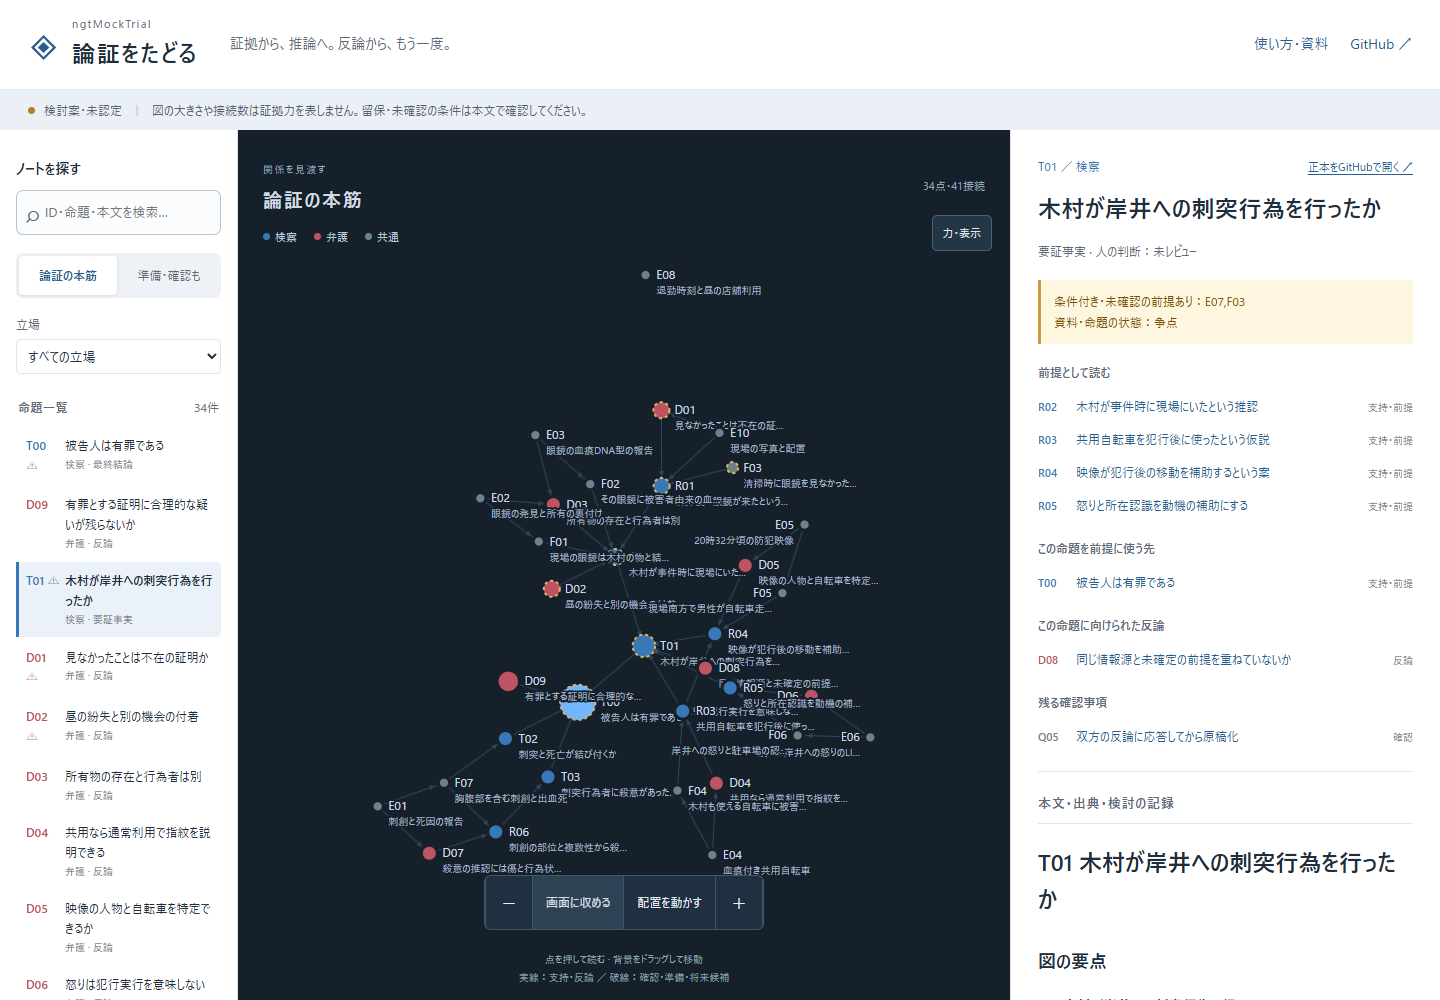
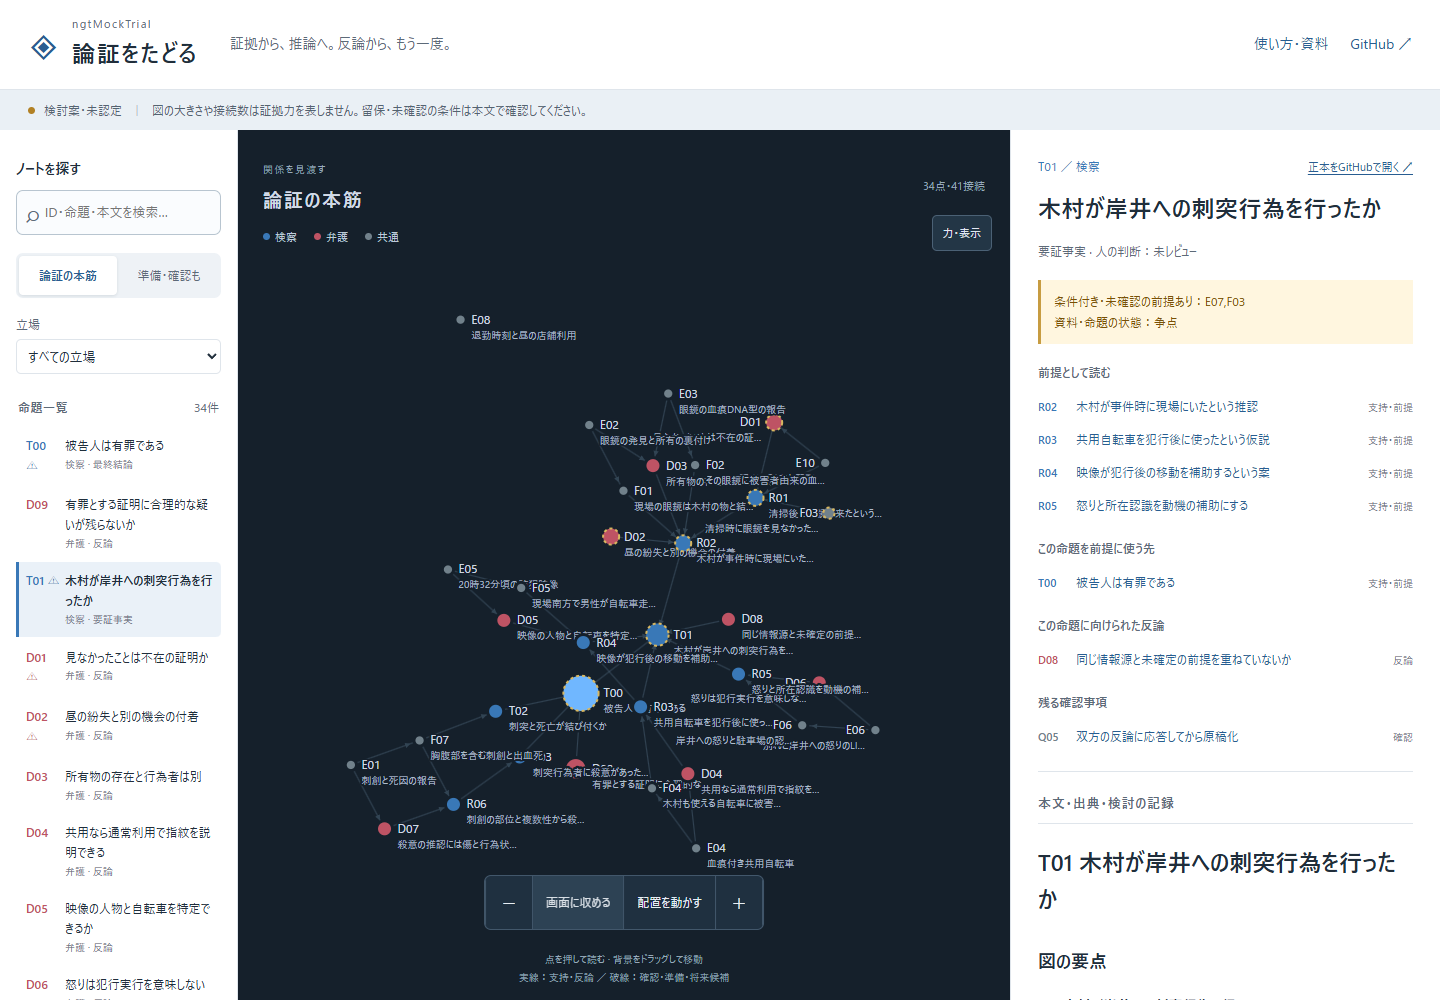
Keep graph computation active for a minimum settling interval

diff --git a/web/app.js b/web/app.js
@@ -28,7 +28,8 @@
   let width = 600, height = 800, zoom = 1, panX = 0, panY = 0;
   let dragging = null, moved = false;
   let simulation = null, simulationNodes = [], hovered = null, emphasized = null, userPaused = false;
-  let fitScale = 1, worldCenter = {x:0,y:0}, plotCenterY=400, automaticFit = true, startedAt = 0;
+  let fitScale = 1, worldCenter = {x:0,y:0}, plotCenterY=400, automaticFit = true, startedAt = 0, settleUntil = 0;
+  const MIN_SETTLING_MS=3000, MAX_SETTLING_MS=8000;
   const pointCache = new Map();
   const reduceMotion = matchMedia('(prefers-reduced-motion:reduce)');
   const ns = 'http://www.w3.org/2000/svg';
@@ -160,13 +161,19 @@
     $('pause-layout').setAttribute('aria-pressed',!value);
   }
 
-  function stopSimulation() {if(simulation)simulation.stop();setRunning(false);}
+  function stopSimulation() {if(simulation)simulation.stop().alphaTarget(0);setRunning(false);}
+
+  function finishSimulation() {stopSimulation();if(automaticFit)fitWorld();paint();}
 
   function restartSimulation(alpha=.35) {
     if (!simulation || userPaused || document.hidden) return;
     startedAt=performance.now();
-    if(reduceMotion.matches){simulation.stop().alpha(alpha).alphaTarget(0).tick(160);if(automaticFit)fitWorld();paint();setRunning(false);}
-    else{simulation.alpha(Math.max(alpha,simulation.alpha())).restart();setRunning(true);}
+    settleUntil=startedAt+MIN_SETTLING_MS;
+    $('graph').dataset.settlingStarted=String(startedAt);
+    // Keep computing for a minimum real-time settling interval before cooling.
+    // Reduced motion suppresses animated painting, not the solver itself.
+    simulation.alpha(Math.max(alpha,simulation.alpha())).alphaTarget(.12).restart();
+    setRunning(true);
   }
 
   function applyForces() {
@@ -201,8 +208,13 @@
     simulation=d3.forceSimulation(simulationNodes).stop().alphaDecay(.055).velocityDecay(.4);
     applyForces();
     simulation.tick(90);fitWorld();automaticFit=true;
-    simulation.on('tick',()=>{paint();if(performance.now()-startedAt>3500&&!dragging)stopSimulation();});
-    simulation.on('end',()=>{if(automaticFit)fitWorld();paint();setRunning(false);});
+    simulation.on('tick',()=>{
+      const now=performance.now();
+      if(!reduceMotion.matches||dragging?.id)paint();
+      if(now>=settleUntil&&!dragging)simulation.alphaTarget(0);
+      if(now-startedAt>=MAX_SETTLING_MS&&!dragging)finishSimulation();
+    });
+    simulation.on('end',finishSimulation);
     $('graph').dataset.engine='d3-force';
     $('graph-count').textContent=`${ids.length}点・${edges.length}接続`;
     $('edges').replaceChildren();$('nodes').replaceChildren();
@@ -267,7 +279,7 @@
   $('graph').addEventListener('keydown',e=>{if(['+','=','-','ArrowLeft','ArrowRight','ArrowUp','ArrowDown'].includes(e.key)){e.preventDefault();if(e.key==='+'||e.key==='=')scaleBy(1.25);else if(e.key==='-')scaleBy(.8);else{automaticFit=false;const amount=e.shiftKey?60:20;panX+=e.key==='ArrowLeft'?amount:e.key==='ArrowRight'?-amount:0;panY+=e.key==='ArrowUp'?amount:e.key==='ArrowDown'?-amount:0;paint();}}});
   $('zoom-in').addEventListener('click',()=>scaleBy(1.25));$('zoom-out').addEventListener('click',()=>scaleBy(.8));
   $('reset-graph').addEventListener('click',()=>{fitWorld();resetView();emphasized=hovered=null;highlightGraph();});
-  $('pause-layout').addEventListener('click',()=>{if($('graph').dataset.running==='true'){userPaused=true;stopSimulation();}else{userPaused=false;restartSimulation();}});
+  $('pause-layout').addEventListener('click',()=>{if($('graph').dataset.running==='true'){userPaused=true;stopSimulation();paint();}else{userPaused=false;restartSimulation();}});
   $('note-list').addEventListener('click',e=>{const link=e.target.closest('[data-note]');if(link){emphasized=link.dataset.note;highlightGraph();}});
   document.addEventListener('keydown',e=>{if(e.key==='Escape'){emphasized=hovered=null;highlightGraph();}});
   function showSettings(){for(const input of document.querySelectorAll('[data-setting]')){if(input.type==='checkbox')input.checked=settings[input.dataset.setting];else{input.value=settings[input.dataset.setting];input.previousElementSibling.value=String(settings[input.dataset.setting]);}}}

diff --git a/web/DESIGN.md b/web/DESIGN.md
@@ -6,7 +6,7 @@
 
 実行時のトークンは`styles.css`の`:root`。背景・本文・補助文・境界・立場色・警告・フォーカス・文字サイズを集約する。図の点は暗い背景に合わせた明るい同系色。種類・立場・状態は本文にも文字で示し、色だけに頼らない。
 
-グラフは正本の関係だけを使うD3の力学配置。ObsidianのピンやCanvas座標は変更しない。ドラッグ・設定変更で再計算し、収束後または操作がない状態で最大3.5秒後には停止する。非表示タブとページ離脱でも停止し、動きを減らす設定では同期計算して静止画を描く。拡縮・画面に収める・配置の停止／再開ボタンも置く。右上は力・表示の調整だけとし、全体／周辺の切替は置かない。
+グラフは正本の関係だけを使うD3の力学配置。ObsidianのピンやCanvas座標は変更しない。初期表示・ドラッグ解放・設定変更後は最低3秒間ソルバーの温度を維持し、その後冷却して収束させる。操作がなければ最大8秒で停止する。手動停止・非表示タブ・ページ離脱では直ちに止める。動きを減らす設定でも同じ時間計算を続け、アニメーション描画を省いて終了時に結果を描く。拡縮・画面に収める・配置の停止／再開ボタンも置く。右上は力・表示の調整だけとし、全体／周辺の切替は置かない。
 
 本文で表示中のノートと、グラフで明示的に強調したノートを分離する。初期表示は全体を明るくし、ホバー／フォーカスの間とクリック選択後だけ関係外を暗くする。未選択時のホバー解除では全体表示へ戻る。背景クリック・Escape・画面に収めるでも強調を解除する。初期URLのノート指定や本文の既定ノートだけで全体を暗くしない。
 
